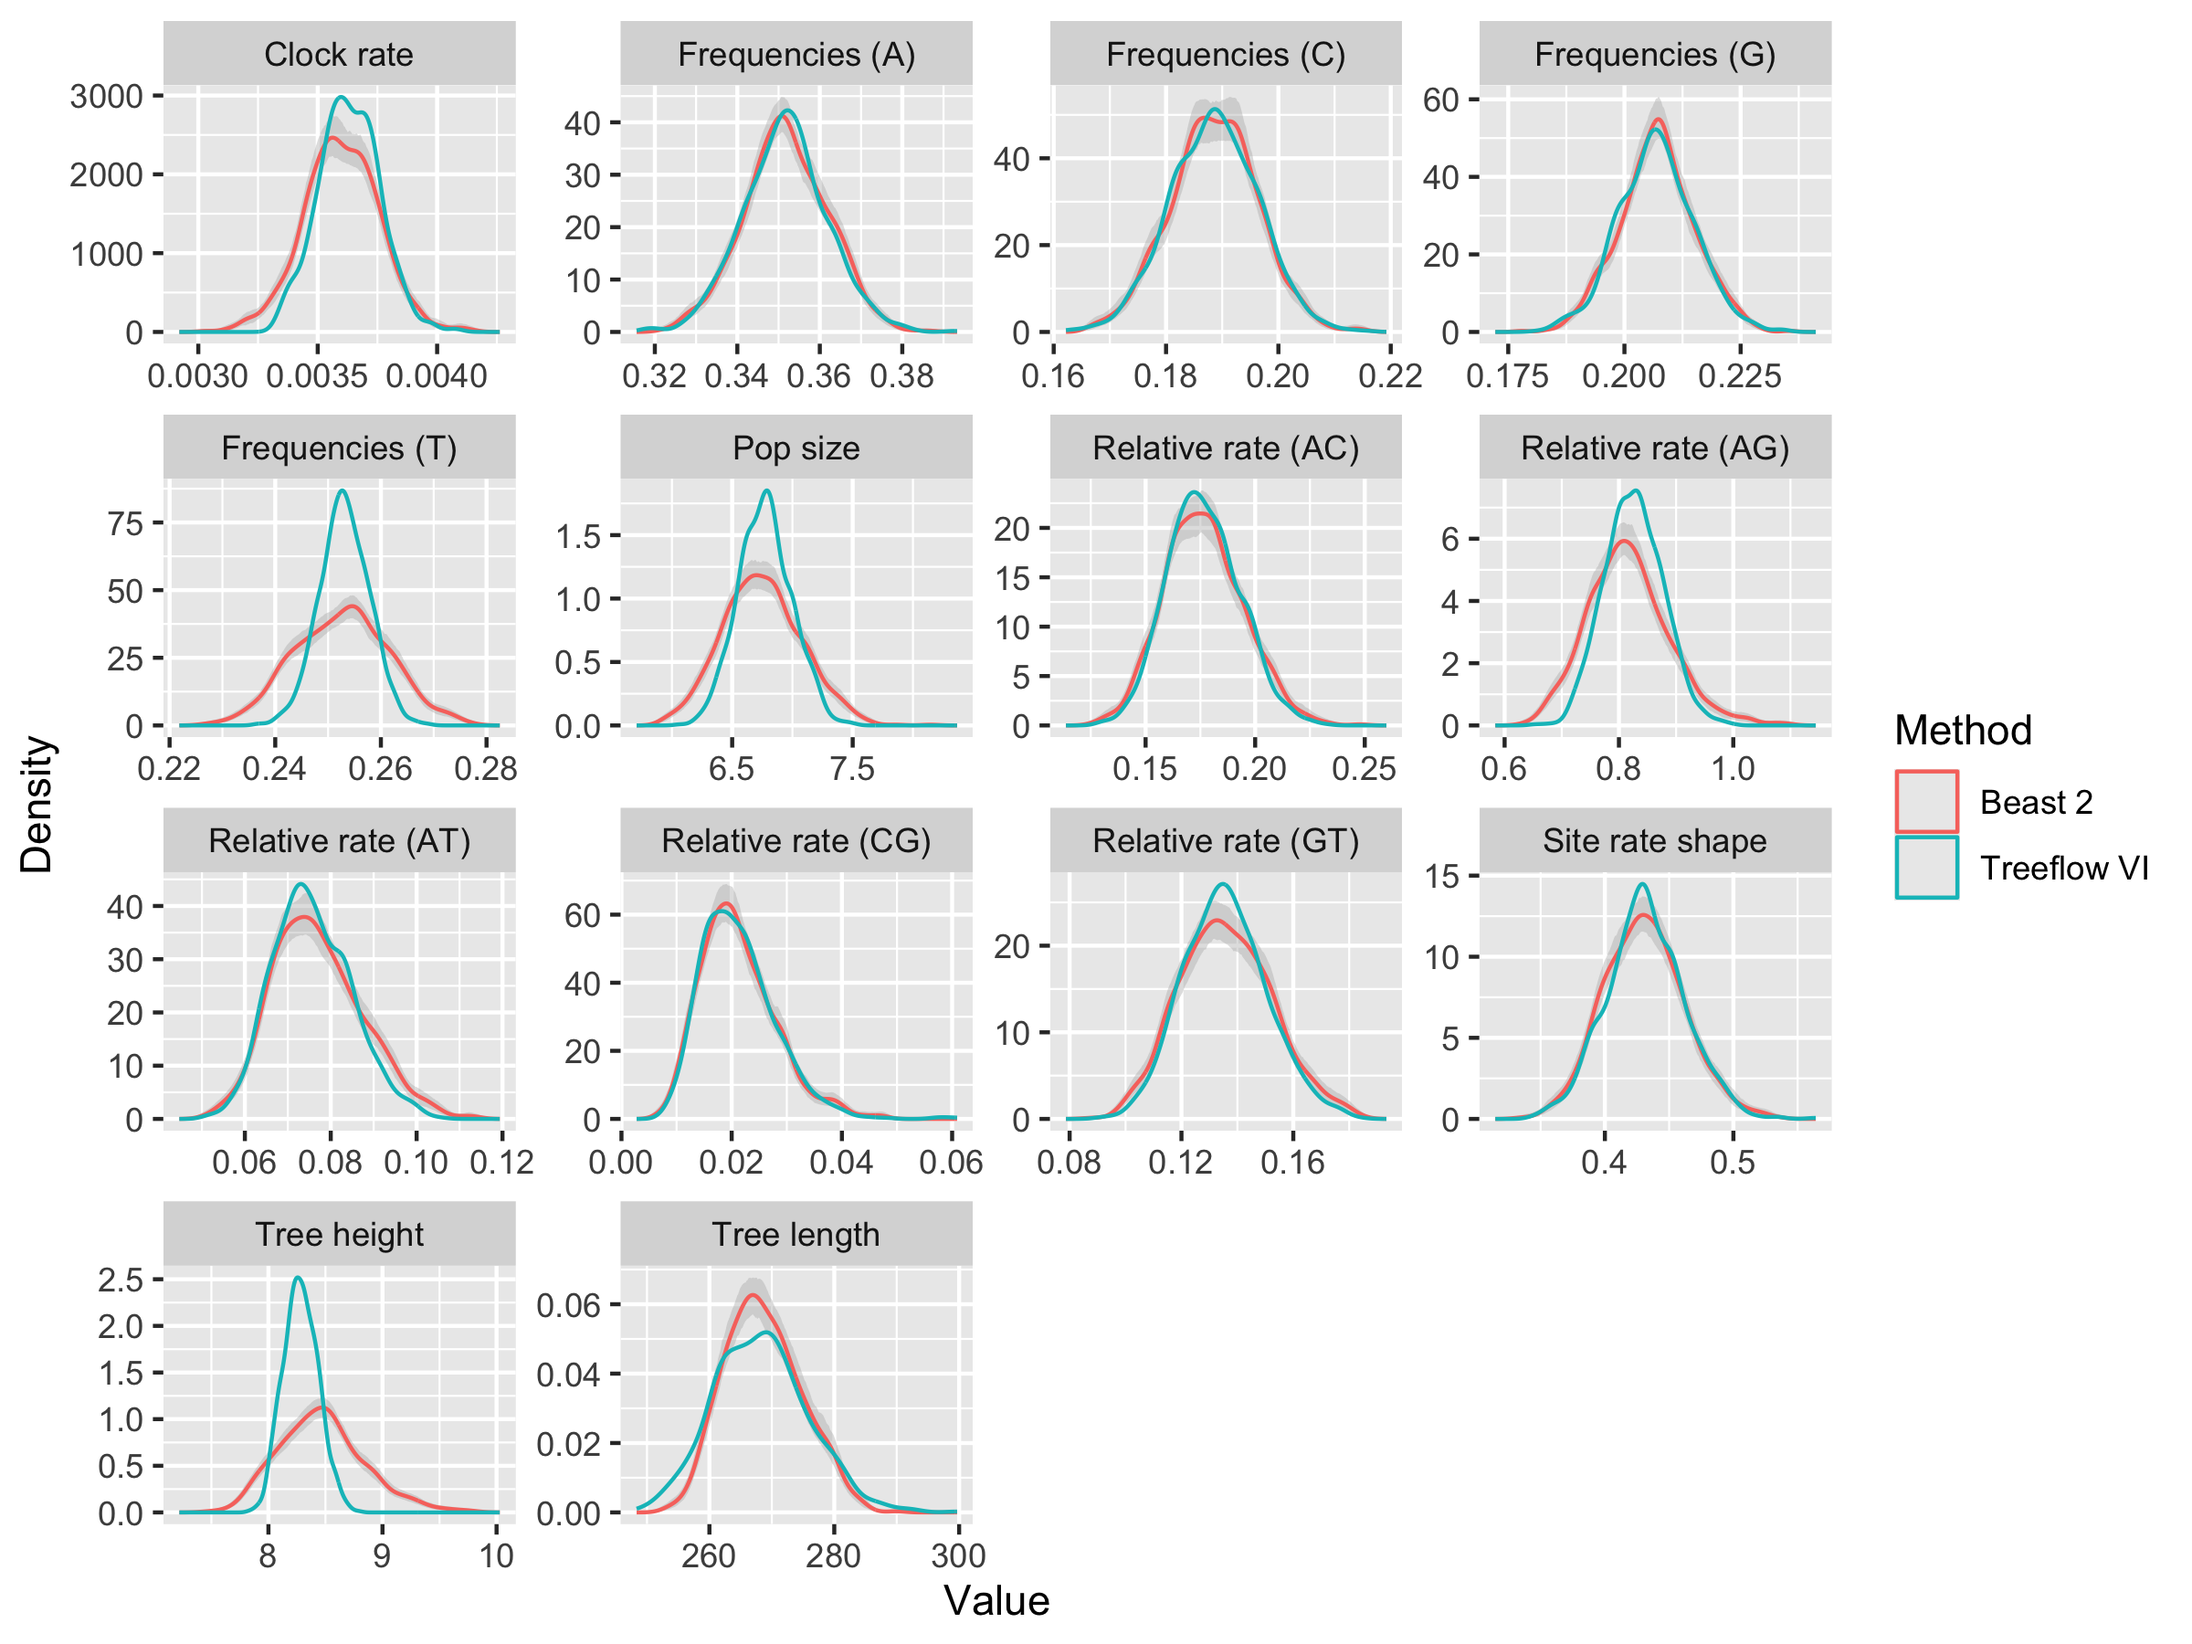
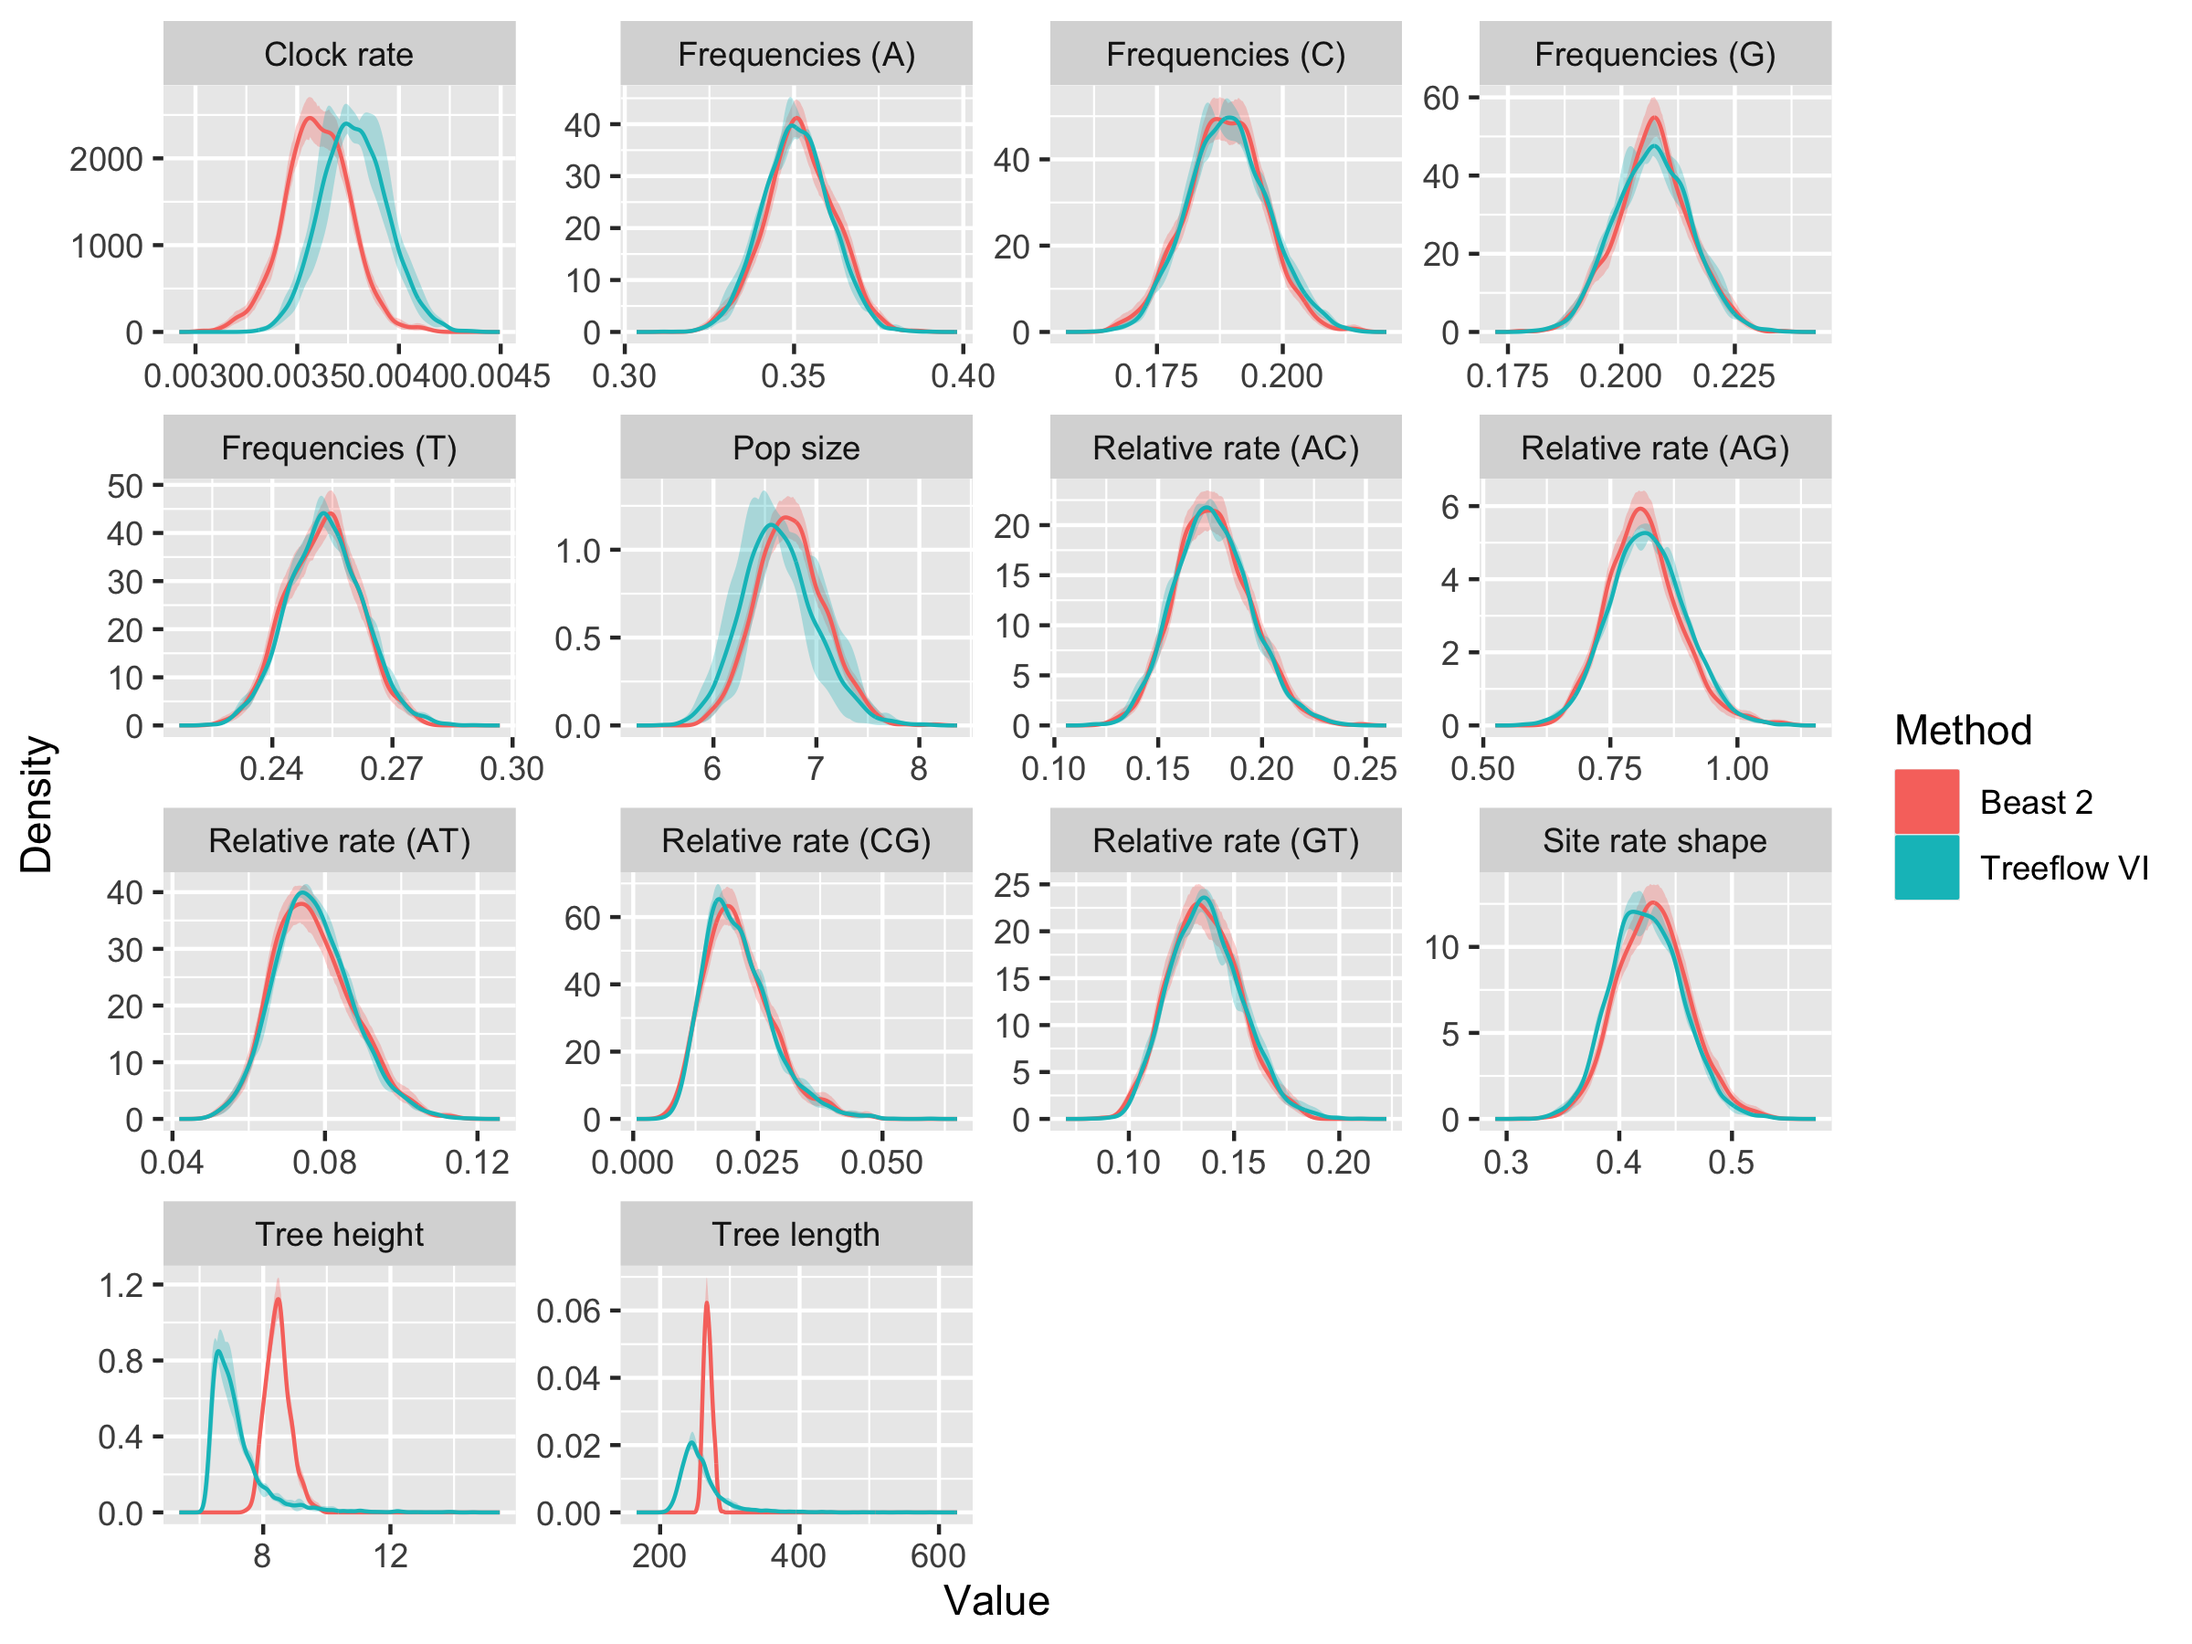
Run H3N2 VI as a 4-seed multi-run, matching carnivores' figure treatment
The treeflow_vi CLI became a run/plot command group, which broke the
existing `treeflow_vi -s ...` invocation here; fixed to `treeflow_vi run`.

Adds flu_variational_fit_run (4 seeds x 60,000 iterations, matching
examples/h3n2-vi-multi-run.sh in the treeflow repo) plus pooling rules
for samples/tree-samples/timing, so the flu marginals and tree figures
get the same pooled-density-plus-inter-run-error-band treatment the
carnivores base-model figure already has from its example notebook's
repeated runs. Generalised the carnivores-specific plotting script
(renamed to multi-run-marginals-plot.R) so both datasets share it, and
added flu_marginals_plot/flu_tree_plot rules (with ruleorder overrides)
in workflow/ms.smk to source from the pooled multi-run outputs.

full_rank's default VI trace is O(steps x D^2) in the free model
dimensions D, which is infeasible at 60,000 steps for this ~990-free-
dimension model; flu_variational_fit_run now passes the new
--max-trace-coords flag (see the treeflow repo) to bound trace memory
instead. Verified with a real, completed 4-seed run: all seeds converged
consistently (ELBO within 0.3% of each other), ~66 minutes and a few GB
peak memory per run, and manuscript/figures/h3n2-{marginals,trees}.png
are regenerated from that real data.

Also set up the local RAxML/LSD2/BEAST2+Feast toolchain (raxmlHPC, lsd,
beast now on PATH) and fixed the local pyenv environment pointer
(.python-version, gitignored) so this pipeline is actually runnable here.
[…]

diff --git a/README.md b/README.md
@@ -99,6 +99,34 @@ snakemake -s workflow/data.smk out/carnivores/variational-samples.csv --cores 1
 snakemake -s workflow/data.smk out/h3n2/beast.xml --cores 1
 ```
 
+#### H3N2 multi-run VI fit
+
+For the manuscript figure, the H3N2 VI fit is run 4 times (60,000 iterations each,
+different seeds) rather than once, so a pooled posterior estimate with an inter-run
+Monte Carlo error band can be shown -- the same treatment the carnivores base-model
+figure gets from repeated runs of its example notebook. This is a separate target
+from the single-run `out/h3n2/variational-samples.csv` above (which is still produced
+and used for the quick local `marginals.png`/`traces.png`/`timing-data.csv`
+diagnostics):
+
+```bash
+snakemake -s workflow/data.smk \
+    out/h3n2/variational-multi-run/samples.csv \
+    out/h3n2/variational-multi-run/tree-samples.nexus \
+    out/h3n2/variational-multi-run/timing.csv \
+    --cores 1
+```
+
+This produces, per seed, `variational-multi-run/{trace,samples,tree-samples}-run{1..4}.pickle|csv|nexus`
+plus a `variational-benchmark.txt`-style timing file per run, and pools them into:
+- `variational-multi-run/samples.csv` -- all runs' parameter samples, annotated with a `run` column
+- `variational-multi-run/tree-samples.nexus` -- all runs' tree samples, concatenated
+- `variational-multi-run/timing.csv` -- per-run seed/iteration-count/wall-clock-time
+
+`workflow/ms.smk`'s `flu_marginals_plot`/`flu_tree_plot` rules consume these directly
+(taking precedence over the generic single-run `data_marginals_plot`/`data_tree_plot`
+rules for the H3N2 dataset).
+
 ### Manuscript pipeline (`workflow/ms.smk`)
 
 Generates publication figures and compiles the manuscript. Depends on outputs from the data pipeline and the treeflow-benchmarks pipeline.
